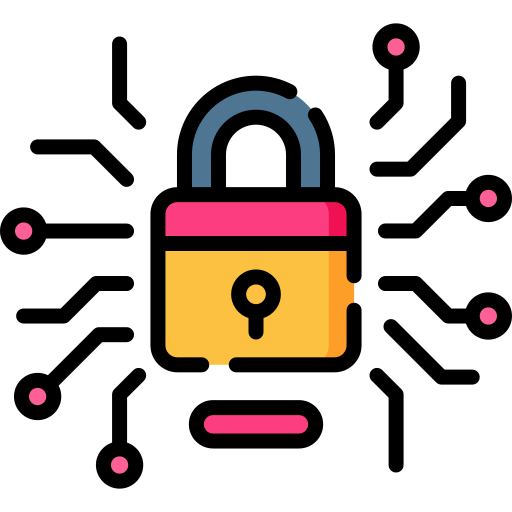
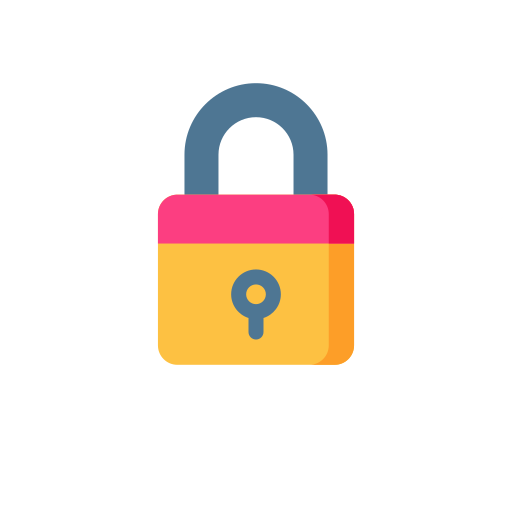
UI theme

diff --git a/README.md b/README.md
@@ -21,6 +21,9 @@ Once installed, you have to logout, and when you login, select the i3 desktop en
 ```
 sudo apt-get install wmctrl
 sudo apt-get install scrot
+sudo apt-get install i3blocks
+sudo add-apt-repository -u ppa:snwh/ppa
+sudo apt-get install paper-icon-theme
 ```
 
 
